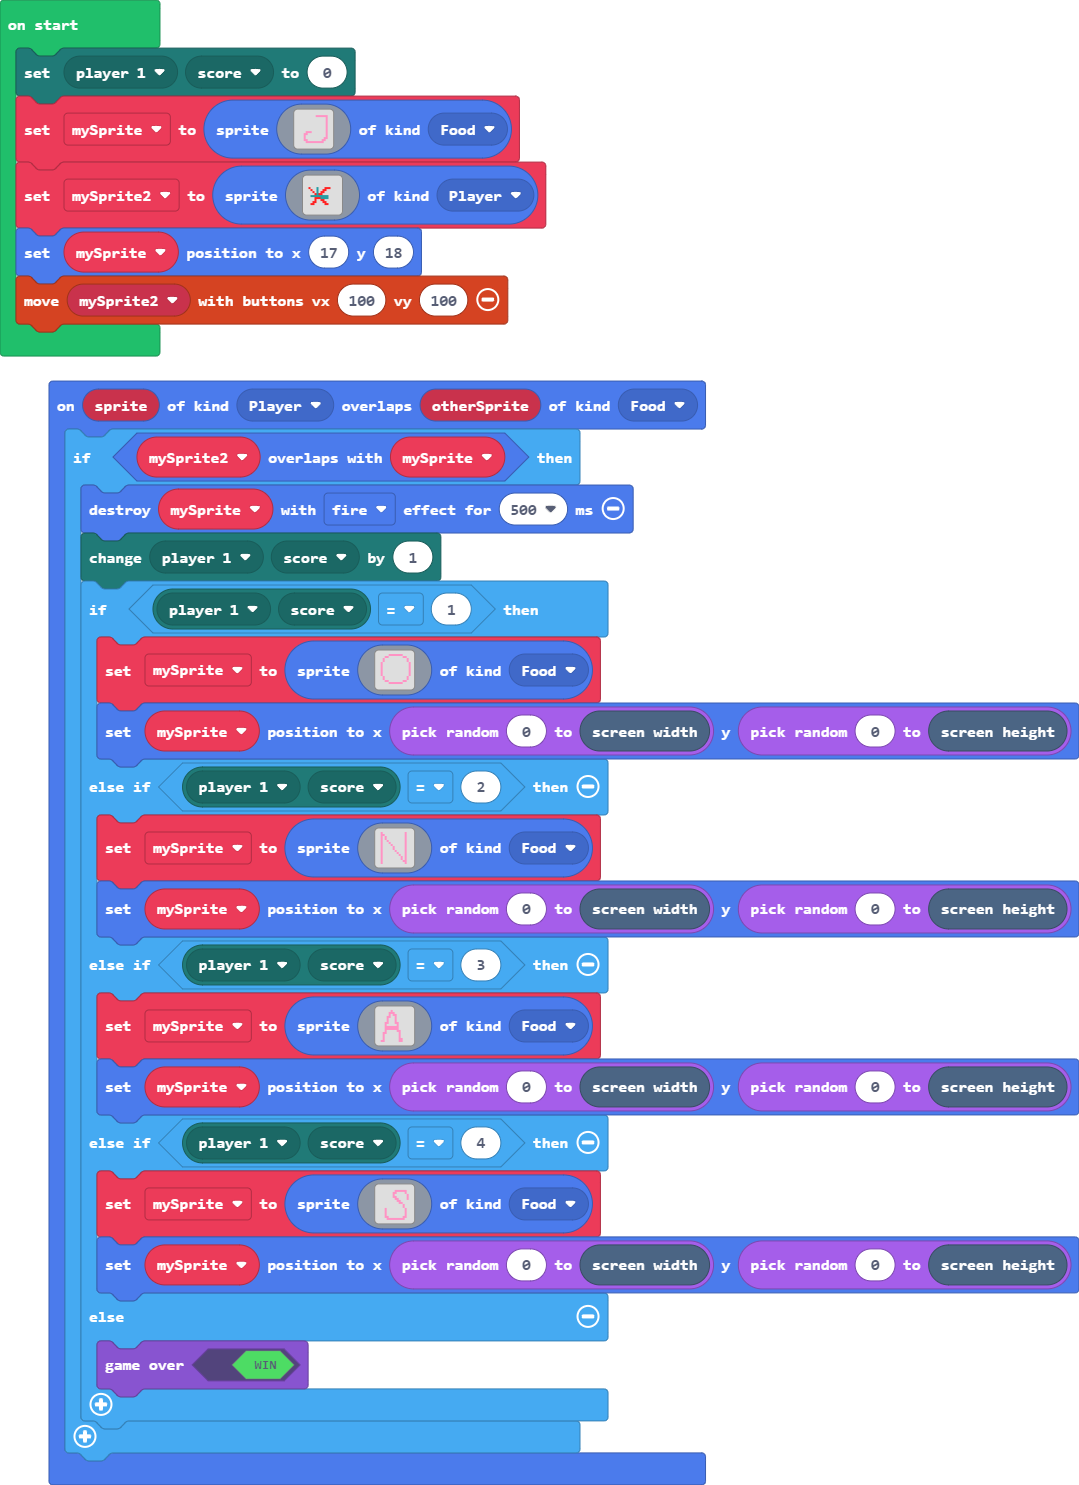
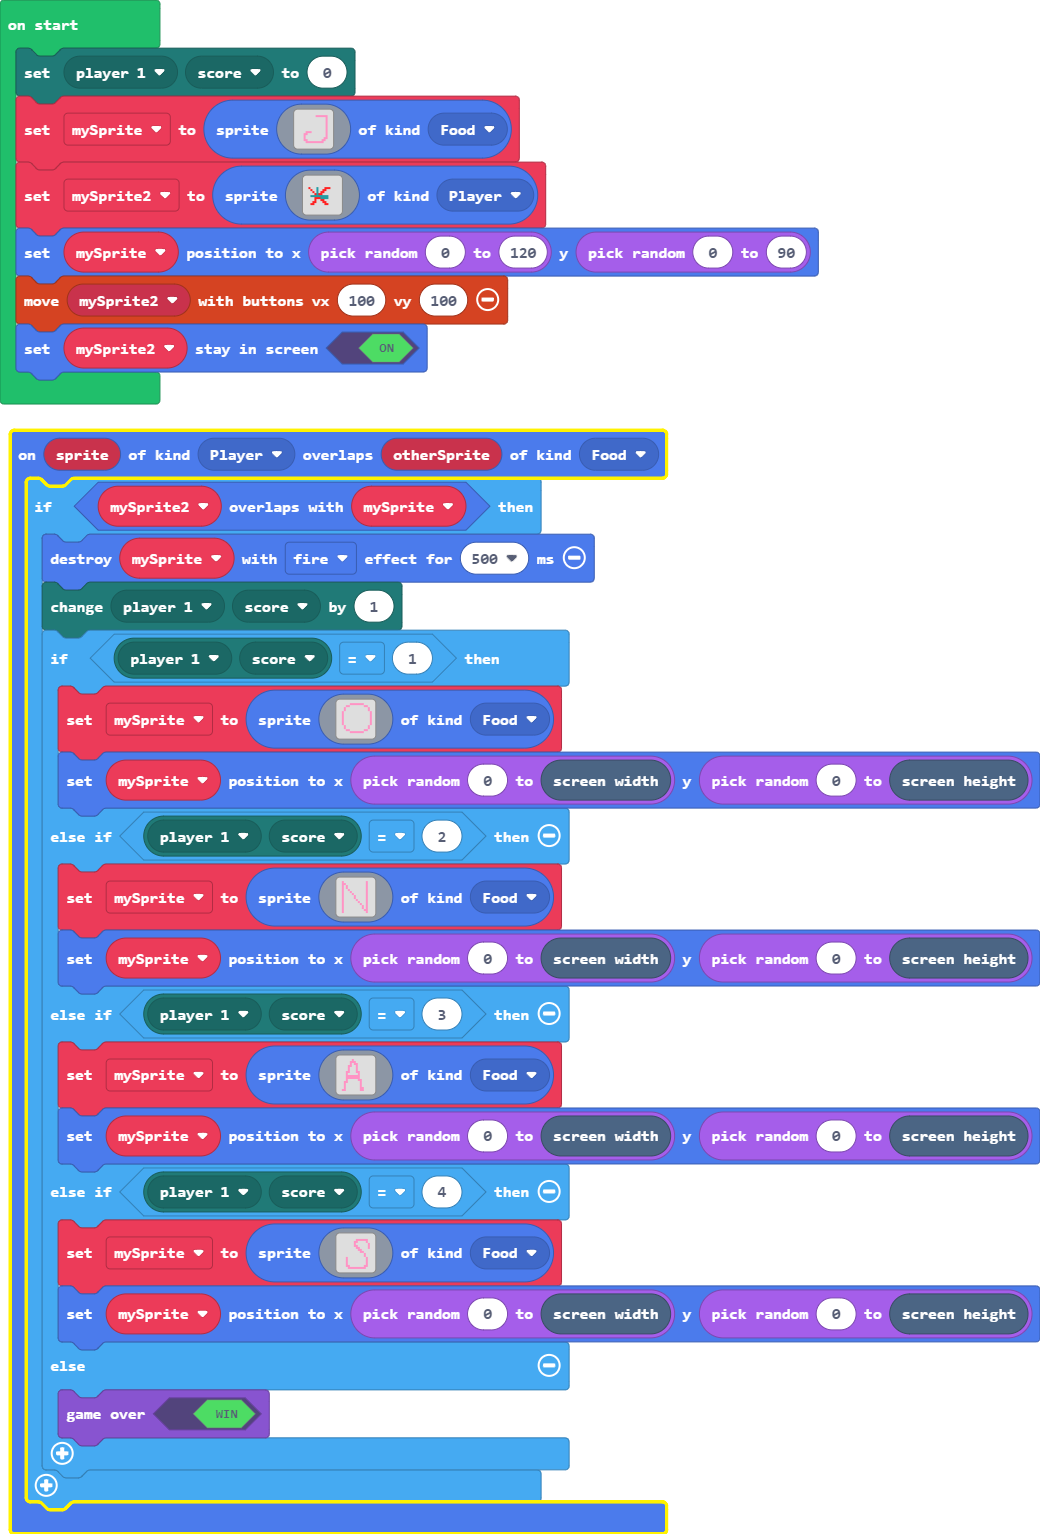
Update main.blocks, main.ts

diff --git a/main.ts b/main.ts
@@ -24,5 +24,6 @@ let mySprite: Sprite = null
 mp.setPlayerState(mp.playerSelector(mp.PlayerNumber.One), MultiplayerState.score, 0)
 mySprite = sprites.create(assets.image`myImage3`, SpriteKind.Food)
 mySprite2 = sprites.create(assets.image`testsprite`, SpriteKind.Player)
-mySprite.setPosition(17, 18)
+mySprite.setPosition(randint(0, 120), randint(0, 90))
 controller.moveSprite(mySprite2, 100, 100)
+mySprite2.setStayInScreen(true)
